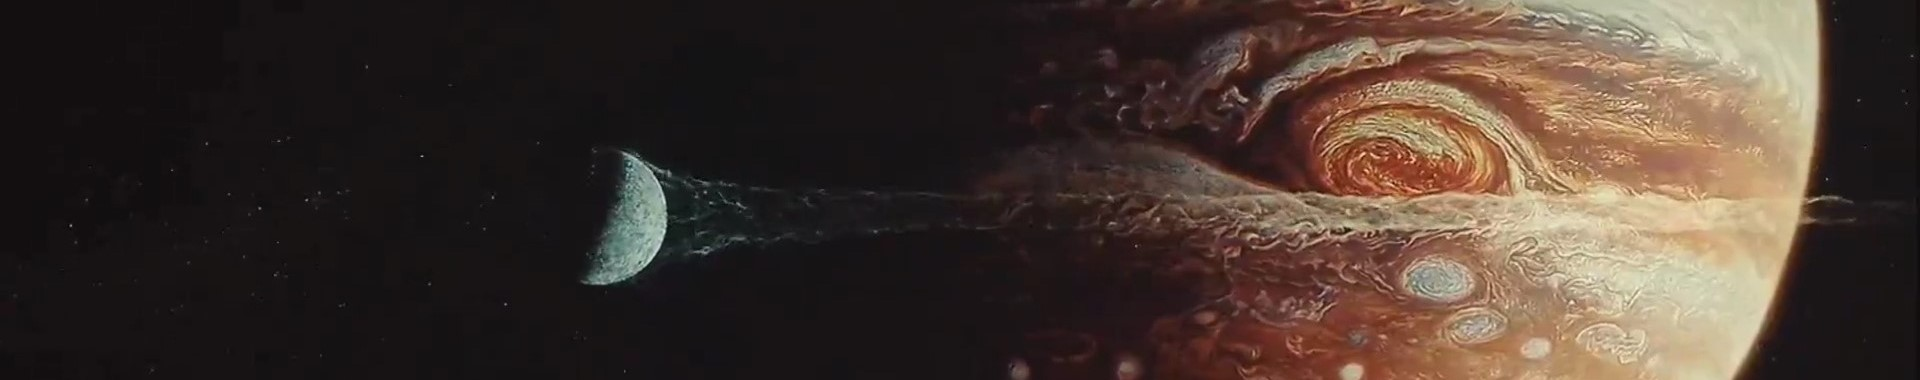
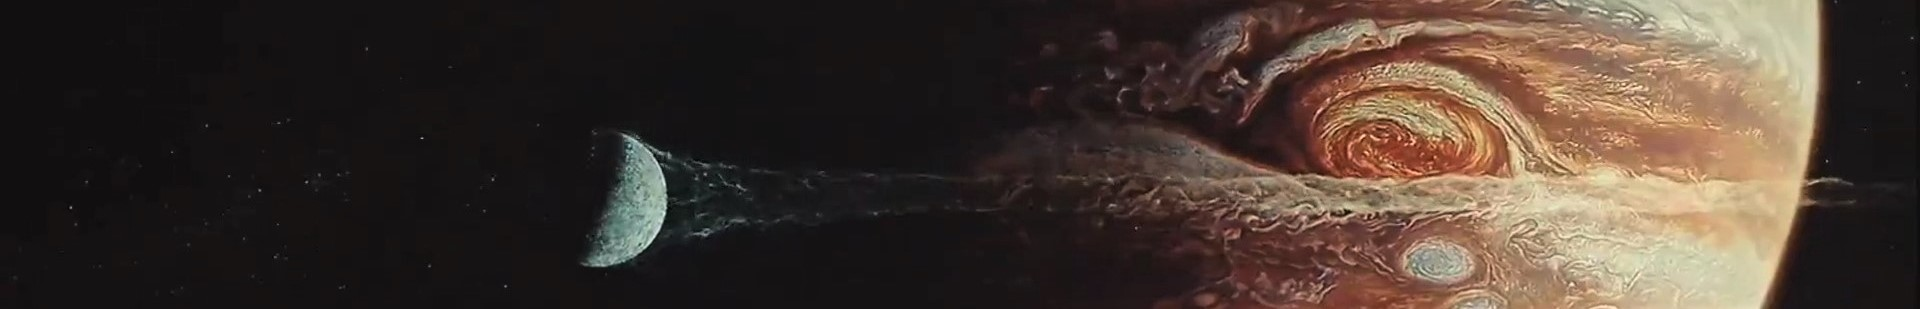
adjust background height

diff --git a/source/_posts/我的blog发布啦.md b/source/_posts/我的blog发布啦.md
@@ -35,5 +35,3 @@ comments: false
 
 ### 兴趣
 这里是作品发布、学习干货的聚集地，放置所有我视之为兴趣的东西，可以是Dota回忆录、摄影作品展、插画展、游记、家装设计、乐器学习等
-
-### test

diff --git a/source/tags/index.md b/source/tags/index.md
@@ -2,4 +2,5 @@
 title: tags
 date: 2019-04-28 10:19:59
 type: "tags"
+comments: false
 ---
